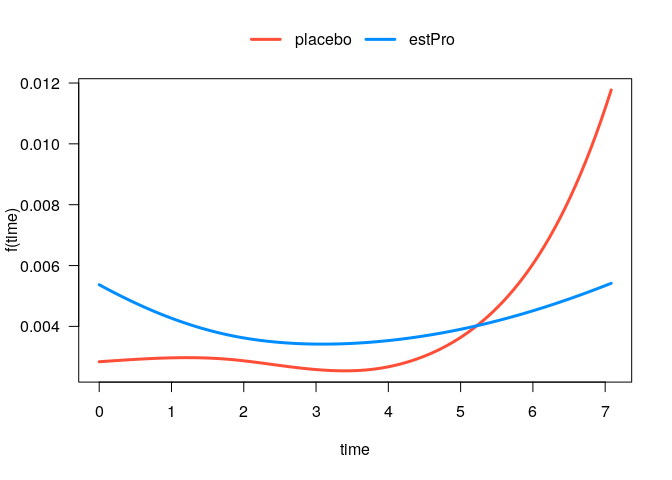
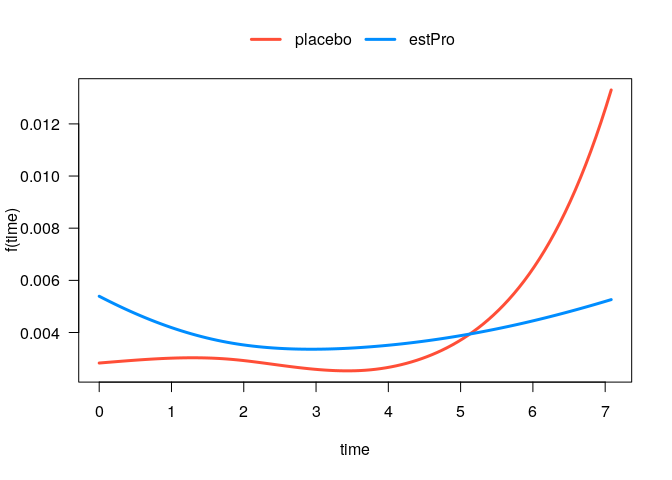
cant use youtube embeddings in github README

diff --git a/README.md b/README.md
@@ -65,9 +65,8 @@ example usage of the functions. This includes
 
 ## useR\! 2019 Toulouse - Presentation
 
-<iframe width="560" height="315" src="https://www.youtube.com/embed/DlppjRYVklQ" frameborder="0" allow="accelerometer; autoplay; encrypted-media; gyroscope; picture-in-picture" allowfullscreen>
-
-</iframe>
+[![Jesse
+useR](man/figures/jesse-user.png)](https://www.youtube.com/watch?v=DlppjRYVklQ)
 
 ## Quickstart
 
@@ -122,26 +121,26 @@ summary(fit)
 #> 
 #> Deviance Residuals: 
 #>     Min       1Q   Median       3Q      Max  
-#> -0.2477  -0.1480  -0.1383  -0.1269   3.1485  
+#> -0.2625  -0.1474  -0.1373  -0.1276   3.1495  
 #> 
 #> Coefficients:
 #>                                   Estimate Std. Error z value Pr(>|z|)    
-#> (Intercept)                       -5.86465    0.29845 -19.650  < 2e-16 ***
-#> treatmentestPro                    0.63765    0.37526   1.699   0.0893 .  
-#> ns(time, df = 3)1                 -0.42587    0.36090  -1.180   0.2380    
-#> ns(time, df = 3)2                  0.80586    0.72936   1.105   0.2692    
-#> ns(time, df = 3)3                  1.36741    0.34263   3.991 6.58e-05 ***
-#> treatmentestPro:ns(time, df = 3)1  0.08876    0.48752   0.182   0.8555    
-#> treatmentestPro:ns(time, df = 3)2 -1.37141    0.93619  -1.465   0.1430    
-#> treatmentestPro:ns(time, df = 3)3 -1.12623    0.48513  -2.322   0.0203 *  
+#> (Intercept)                        -5.8675     0.2999 -19.566  < 2e-16 ***
+#> treatmentestPro                     0.6444     0.3774   1.708   0.0877 .  
+#> ns(time, df = 3)1                  -0.4813     0.3632  -1.325   0.1851    
+#> ns(time, df = 3)2                   0.9012     0.7330   1.229   0.2189    
+#> ns(time, df = 3)3                   1.4706     0.3463   4.247 2.17e-05 ***
+#> treatmentestPro:ns(time, df = 3)1   0.1648     0.4900   0.336   0.7366    
+#> treatmentestPro:ns(time, df = 3)2  -1.5224     0.9419  -1.616   0.1060    
+#> treatmentestPro:ns(time, df = 3)3  -1.2393     0.4892  -2.534   0.0113 *  
 #> ---
 #> Signif. codes:  0 '***' 0.001 '**' 0.01 '*' 0.05 '.' 0.1 ' ' 1
 #> 
 #> (Dispersion parameter for binomial family taken to be 1)
 #> 
 #>     Null deviance: 3635.4  on 32723  degrees of freedom
-#> Residual deviance: 3614.7  on 32716  degrees of freedom
-#> AIC: 3630.7
+#> Residual deviance: 3613.9  on 32716  degrees of freedom
+#> AIC: 3629.9
 #> 
 #> Number of Fisher Scoring iterations: 7
 ```
